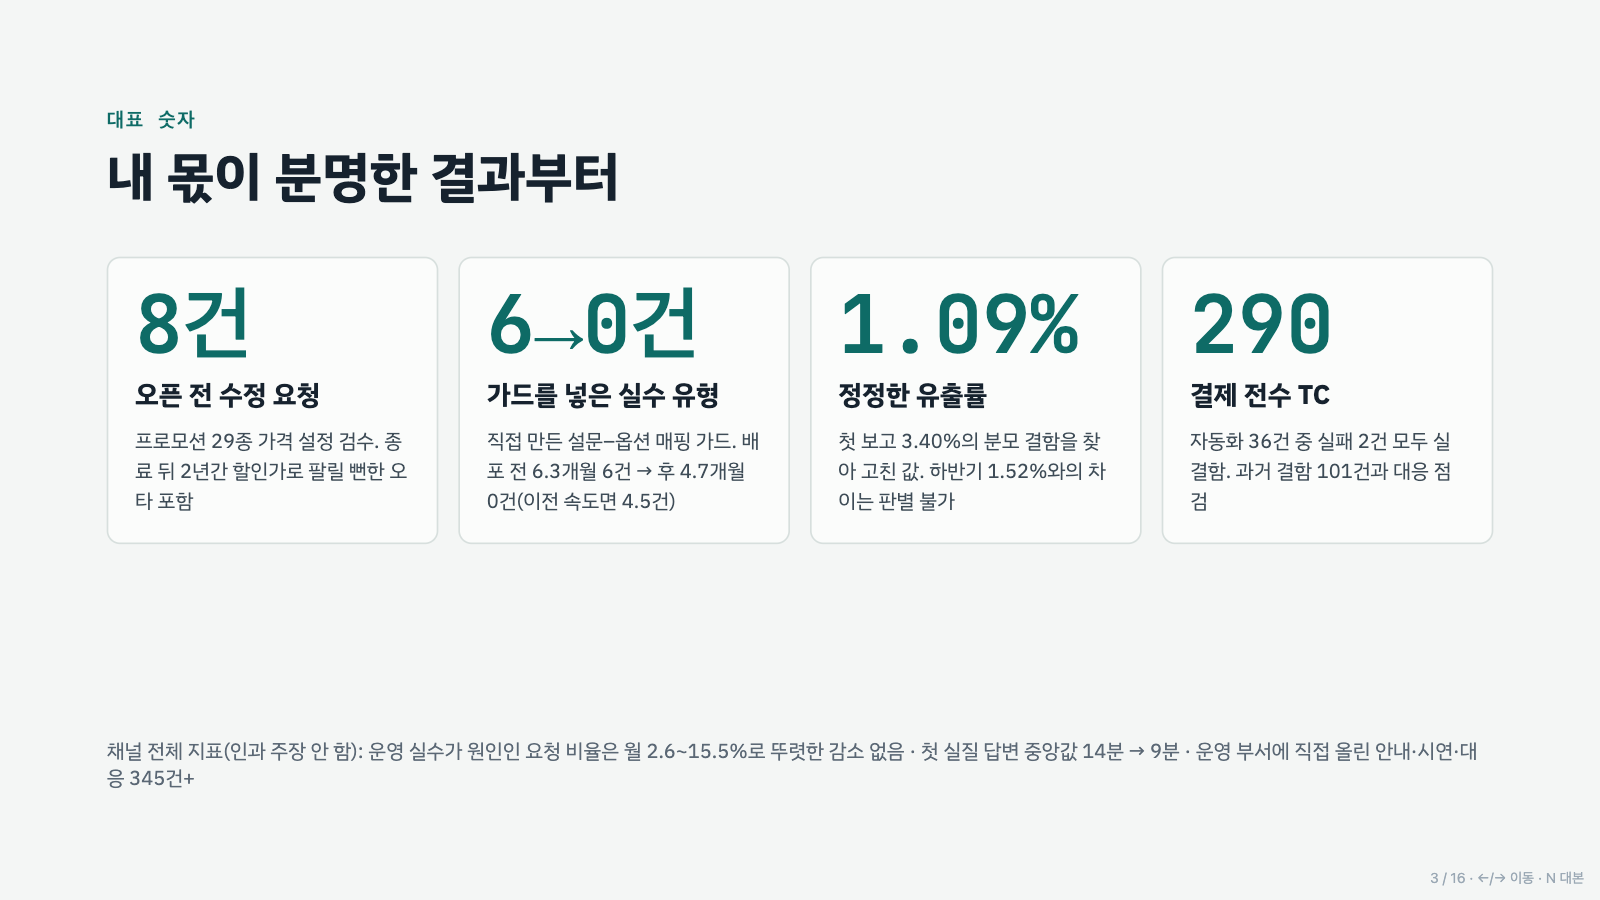
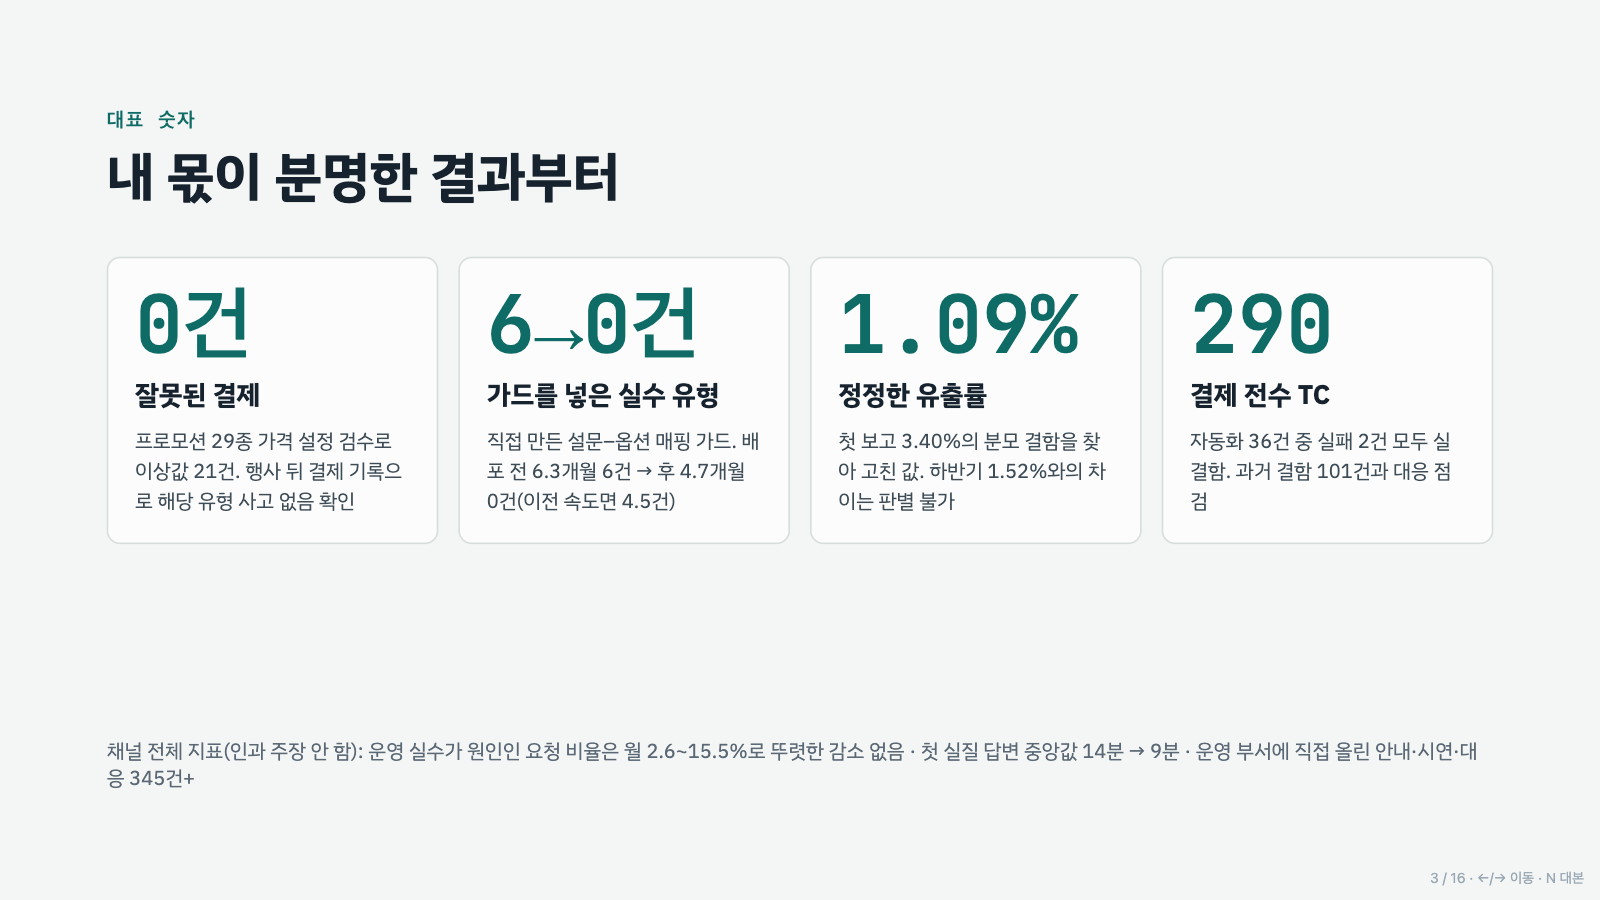
사례 13: 행사 뒤 결제 기록으로 결과 실측(잘못된 결제 0건), '수정 요청 8건'을 근거 없는 수치로 정정

Changed region(s): [[0.0625, 0.4667, 0.25, 0.5911], [0.0625, 0.4044, 0.2188, 0.4667], [0.0938, 0.3422, 0.125, 0.3733]]

diff --git a/5-presentation/portfolio-deck.html b/5-presentation/portfolio-deck.html
@@ -123,13 +123,13 @@ table.tbl th{font-weight:700}
 <h2 class="title">내 몫이 분명한 결과부터</h2>
 </div>
 <div class="cols4">
-<div class="card"><p class="big">8건</p><h3 class="ctitle">오픈 전 수정 요청</h3><p class="ctext">프로모션 29종 가격 설정 검수. 종료 뒤 2년간 할인가로 팔릴 뻔한 오타 포함</p></div>
+<div class="card"><p class="big">0건</p><h3 class="ctitle">잘못된 결제</h3><p class="ctext">프로모션 29종 가격 설정 검수로 이상값 21건. 행사 뒤 결제 기록으로 해당 유형 사고 없음 확인</p></div>
 <div class="card"><p class="big">6→0건</p><h3 class="ctitle">가드를 넣은 실수 유형</h3><p class="ctext">직접 만든 설문–옵션 매핑 가드. 배포 전 6.3개월 6건 → 후 4.7개월 0건(이전 속도면 4.5건)</p></div>
 <div class="card"><p class="big">1.09%</p><h3 class="ctitle">정정한 유출률</h3><p class="ctext">첫 보고 3.40%의 분모 결함을 찾아 고친 값. 하반기 1.52%와의 차이는 판별 불가</p></div>
 <div class="card"><p class="big">290</p><h3 class="ctitle">결제 전수 TC</h3><p class="ctext">자동화 36건 중 실패 2건 모두 실결함. 과거 결함 101건과 대응 점검</p></div>
 </div>
 <p class="source">채널 전체 지표(인과 주장 안 함): 운영 실수가 원인인 요청 비율은 월 2.6~15.5%로 뚜렷한 감소 없음 · 첫 실질 답변 중앙값 14분 → 9분 · 운영 부서에 직접 올린 안내·시연·대응 345건+</p>
-<aside>대표 숫자 네 개는 제 몫이 분명한 것으로 골랐습니다. 프로모션 가격 설정을 오픈 전날 혼자 교차 검증해 수정 요청 8건을 넘겼고, 그중에는 행사가 끝난 뒤 2년간 할인가로 팔릴 뻔한 종료일 오타가 있었습니다. 운영 문의를 판정하다 반복되던 설문과 옵션 매핑 실수 자리에는 제가 직접 가드를 만들었고, 배포 전 6개월 남짓 6건이던 같은 유형이 배포 뒤 4.7개월 동안 0건입니다. 이전 속도라면 4.5건이 나왔어야 합니다. 크리티컬 유출률은 제가 처음 보고한 3.40%의 분모가 틀렸다는 걸 하반기 재측정에서 찾아 고쳤고, 고친 값끼리의 반기 차이는 표본이 작아 판별할 수 없다는 것까지 함께 보고했습니다. 결제 TC는 290건을 설계했고 자동화한 36건에서 나온 실패 2건이 모두 실제 결함이었습니다. 아래 줄은 채널 전체 값입니다. 운영 실수 비율은 월별로 오르내릴 뿐 뚜렷하게 줄지 않았고, 응답 시간도 제 효과라고 주장하지 않습니다.</aside>
+<aside>대표 숫자 네 개는 제 몫이 분명한 것으로 골랐습니다. 프로모션 가격 설정을 오픈 전날 혼자 교차 검증해 이상값 21건을 찾았고, 그중에는 행사가 끝난 뒤 2년간 할인가로 팔릴 뻔한 종료일 오타가 있었습니다. 행사가 끝난 뒤 결제 기록을 다시 조회해 보니 해당 유형에서 잘못된 결제는 한 건도 없었습니다. 다만 누가 언제 고쳤는지는 이력이 남지 않아, 제 지적 덕분이라고는 말하지 않습니다. 운영 문의를 판정하다 반복되던 설문과 옵션 매핑 실수 자리에는 제가 직접 가드를 만들었고, 배포 전 6개월 남짓 6건이던 같은 유형이 배포 뒤 4.7개월 동안 0건입니다. 이전 속도라면 4.5건이 나왔어야 합니다. 크리티컬 유출률은 제가 처음 보고한 3.40%의 분모가 틀렸다는 걸 하반기 재측정에서 찾아 고쳤고, 고친 값끼리의 반기 차이는 표본이 작아 판별할 수 없다는 것까지 함께 보고했습니다. 결제 TC는 290건을 설계했고 자동화한 36건에서 나온 실패 2건이 모두 실제 결함이었습니다. 아래 줄은 채널 전체 값입니다. 운영 실수 비율은 월별로 오르내릴 뿐 뚜렷하게 줄지 않았고, 응답 시간도 제 효과라고 주장하지 않습니다.</aside>
 </section>
 <section id="opsupport">
 <div class="head">

diff --git a/5-presentation/src/slides/numbers.html b/5-presentation/src/slides/numbers.html
@@ -4,11 +4,11 @@
 <h2 class="title">내 몫이 분명한 결과부터</h2>
 </div>
 <div class="cols4">
-<div class="card"><p class="big">8건</p><h3 class="ctitle">오픈 전 수정 요청</h3><p class="ctext">프로모션 29종 가격 설정 검수. 종료 뒤 2년간 할인가로 팔릴 뻔한 오타 포함</p></div>
+<div class="card"><p class="big">0건</p><h3 class="ctitle">잘못된 결제</h3><p class="ctext">프로모션 29종 가격 설정 검수로 이상값 21건. 행사 뒤 결제 기록으로 해당 유형 사고 없음 확인</p></div>
 <div class="card"><p class="big">6→0건</p><h3 class="ctitle">가드를 넣은 실수 유형</h3><p class="ctext">직접 만든 설문–옵션 매핑 가드. 배포 전 6.3개월 6건 → 후 4.7개월 0건(이전 속도면 4.5건)</p></div>
 <div class="card"><p class="big">1.09%</p><h3 class="ctitle">정정한 유출률</h3><p class="ctext">첫 보고 3.40%의 분모 결함을 찾아 고친 값. 하반기 1.52%와의 차이는 판별 불가</p></div>
 <div class="card"><p class="big">290</p><h3 class="ctitle">결제 전수 TC</h3><p class="ctext">자동화 36건 중 실패 2건 모두 실결함. 과거 결함 101건과 대응 점검</p></div>
 </div>
 <p class="source">채널 전체 지표(인과 주장 안 함): 운영 실수가 원인인 요청 비율은 월 2.6~15.5%로 뚜렷한 감소 없음 · 첫 실질 답변 중앙값 14분 → 9분 · 운영 부서에 직접 올린 안내·시연·대응 345건+</p>
-<aside>대표 숫자 네 개는 제 몫이 분명한 것으로 골랐습니다. 프로모션 가격 설정을 오픈 전날 혼자 교차 검증해 수정 요청 8건을 넘겼고, 그중에는 행사가 끝난 뒤 2년간 할인가로 팔릴 뻔한 종료일 오타가 있었습니다. 운영 문의를 판정하다 반복되던 설문과 옵션 매핑 실수 자리에는 제가 직접 가드를 만들었고, 배포 전 6개월 남짓 6건이던 같은 유형이 배포 뒤 4.7개월 동안 0건입니다. 이전 속도라면 4.5건이 나왔어야 합니다. 크리티컬 유출률은 제가 처음 보고한 3.40%의 분모가 틀렸다는 걸 하반기 재측정에서 찾아 고쳤고, 고친 값끼리의 반기 차이는 표본이 작아 판별할 수 없다는 것까지 함께 보고했습니다. 결제 TC는 290건을 설계했고 자동화한 36건에서 나온 실패 2건이 모두 실제 결함이었습니다. 아래 줄은 채널 전체 값입니다. 운영 실수 비율은 월별로 오르내릴 뿐 뚜렷하게 줄지 않았고, 응답 시간도 제 효과라고 주장하지 않습니다.</aside>
+<aside>대표 숫자 네 개는 제 몫이 분명한 것으로 골랐습니다. 프로모션 가격 설정을 오픈 전날 혼자 교차 검증해 이상값 21건을 찾았고, 그중에는 행사가 끝난 뒤 2년간 할인가로 팔릴 뻔한 종료일 오타가 있었습니다. 행사가 끝난 뒤 결제 기록을 다시 조회해 보니 해당 유형에서 잘못된 결제는 한 건도 없었습니다. 다만 누가 언제 고쳤는지는 이력이 남지 않아, 제 지적 덕분이라고는 말하지 않습니다. 운영 문의를 판정하다 반복되던 설문과 옵션 매핑 실수 자리에는 제가 직접 가드를 만들었고, 배포 전 6개월 남짓 6건이던 같은 유형이 배포 뒤 4.7개월 동안 0건입니다. 이전 속도라면 4.5건이 나왔어야 합니다. 크리티컬 유출률은 제가 처음 보고한 3.40%의 분모가 틀렸다는 걸 하반기 재측정에서 찾아 고쳤고, 고친 값끼리의 반기 차이는 표본이 작아 판별할 수 없다는 것까지 함께 보고했습니다. 결제 TC는 290건을 설계했고 자동화한 36건에서 나온 실패 2건이 모두 실제 결함이었습니다. 아래 줄은 채널 전체 값입니다. 운영 실수 비율은 월별로 오르내릴 뿐 뚜렷하게 줄지 않았고, 응답 시간도 제 효과라고 주장하지 않습니다.</aside>
 </section>

diff --git a/2-career-flow/cases/13-promotion-price-crosscheck.md b/2-career-flow/cases/13-promotion-price-crosscheck.md
@@ -1,9 +1,9 @@
 # 오픈 전날, 29개 상품의 가격 계단을 교차 검증하다
 
-**역할**: 시즌 프로모션 판매 설정 검수(혼자) · 이상값 정리 · 수정 요청
+**역할**: 시즌 프로모션 판매 설정 검수(혼자) · 이상값 정리 · 오픈 뒤 결과 확인
 **기간**: 2026.09 (프로모션 오픈 전날)
-**상태**: 오픈 전에 이상값을 유형별로 정리해 상품 담당자에게 개별 수정 요청(8건). 반영은 상품 담당 몫이었고, 몇 건이 오픈 전에 고쳐졌는지는 확인하지 못했다
-**한 줄**: 늦게 살수록 비싸지는 4단계 가격 계단을 29개 상품에 수동으로 설정한 프로모션이었다. 오픈 전날 판매 설정 전체를 뽑아 의도한 계단과 대조했고, 판매가 2년 동안 이어질 뻔한 종료일 오타를 포함한 이상값을 찾아 오픈 전에 넘겼다.
+**상태**: 이상값 6유형·21건을 오픈 전에 찾았고, 행사가 끝난 뒤 운영 DB로 결과를 확인했다 — 결제에 영향을 주는 두 유형에서 잘못된 결제 0건
+**한 줄**: 늦게 살수록 비싸지는 4단계 가격 계단을 29개 상품에 수동으로 설정한 프로모션이었다. 오픈 전날 판매 설정 전체를 뽑아 의도한 계단과 대조해 판매가 2년 동안 이어질 뻔한 종료일 오타를 포함한 이상값을 찾았고, 행사가 끝난 뒤 실제 결제 기록으로 사고가 없었는지 확인했다.
 
 ---
 
@@ -27,13 +27,22 @@
 | 초 단위로 어긋난 종료 시각, 사실상 무제한인 수량 제한 | 3 | 경계 시각 오작동 가능 |
 | 행사 대상이 아닐 수 있는 상품 | 3 | 목록 재확인 필요 |
 
-이 중 고객 결제에 직접 영향을 주는 항목을 상품 담당자별로 묶어 **개별 수정 요청 8건**으로 넘겼다. 자동 전환 예약이 실제로 걸려 있는지는 어드민 권한으로만 볼 수 있어, "자정마다 사람이 수동 전환하면 최대 사고 지점"이라는 확인 요청도 함께 남겼다.
+찾은 이상값은 대조 시트로 정리했다. 오픈 전날(9/7·9/8)에는 마케팅 채널에 설정 리스크 점검 계획(옵션 노출 예약 상태·운영 실수 확인)과 날짜별로 어떤 옵션이 보여야 하는지의 기준을 공유하고, 오픈 자정 모니터링을 개발자 2명과 함께 잡았다. 상품별로 누구에게 어떤 수정을 요청했는지의 개별 기록은 남아 있지 않다(처음 이 사례를 쓸 때 "수정 요청 8건"이라고 적었는데, 확인해 보니 8은 요청 건수가 아니라 메모해 둔 이상값 항목 수였다. 정정한다).
 
-## 결과
-- 종료일 연도 오타처럼 오류 없이 2년간 잘못 팔릴 설정을 오픈 전에 찾아 넘겼다. 반영 확인까지 닫지 못한 것은 아쉬운 점이다 — 다음에는 오픈 직전 같은 시트를 한 번 더 돌려 반영 여부를 표에 남긴다.
+## 결과 — 행사 뒤 운영 DB로 확인 (2026.11, 읽기 전용 조회)
+| 이상값 | 오픈 뒤 실제 결과 | 판정 |
+|---|---|---|
+| 종료일 연도 오타 (2종) | 행사 종료 뒤 결제 **0건**, 종료일은 행사 종료 시각으로 바뀌어 있음 | 사고 없음 |
+| 티징 기간 구매 가능 (8종) | 29종 전부 티징 기간 결제 **0건**, 첫 결제는 모두 메인 강의 당일 11:00 이후 | 사고 없음 |
+| 옵션명 "(복사)" (4종) | 현재 옵션명에 0건 | 현재 정상, 판매 당시 이름은 이력이 없어 미확인 |
+| 계단 구멍·초 단위 시각·대상 의심 | 앵콜 판매용으로 설정이 다시 바뀌어 당시 상태를 알 수 없음 | 판정 불가 |
+
+- 결제에 직접 영향을 주는 두 유형(10종)은 실제로 잘못된 결제가 한 건도 없었다.
+- 설정 변경 이력이 남지 않는 구조라 **누가 언제 고쳤는지는 알 수 없다.** 내 지적 덕분에 고쳐졌다고 주장하지 않는다. 내 몫은 "찾고, 공유하고, 결과까지 확인한 것"이다.
+- 아쉬운 점: 오픈 직전 같은 시트를 한 번 더 돌려 반영 여부를 표에 남겼다면 귀속까지 말할 수 있었다. 다음에는 오픈 직전 재검수를 체크리스트에 넣는다.
 - 같은 검수를 다음 시즌에도 돌릴 수 있게 대조 시트(4개 탭)와 타임라인 그림을 남겼다.
 
 ## 재사용할 원칙
 - **오류가 나지 않는 설정**(가격·기간·노출)은 테스트가 아니라 **의도와의 대조**로 검증한다. 의도를 먼저 문장·그림으로 고정한다.
 - 수동 설정이 많을수록 **시각 경계**(오픈 시각, 자정, 종료일)부터 본다.
-- 이상값은 "상품 담당자별 수정 요청"으로 묶어야 오픈 전에 실제로 고쳐진다.
+- 이상값은 "상품 담당자별 수정 요청"으로 묶고, 요청과 반영 여부를 같은 표에 남긴다. 그래야 결과를 내 몫으로 말할 수 있다.

diff --git a/이력서.md b/이력서.md
@@ -16,7 +16,7 @@
 ## 핵심 역량
 
 - **운영 문의를 닫는 운영지원** — 문의마다 "시스템 결함 / 운영 실수·오해 / 정책 문의"를 판정하고 오늘 할 조치와 근본 수정 티켓을 한 답글로 정리(형식을 도구로 고정). 정책·사용법 안내·새 기능 시연·운영 문제 대응을 운영 부서에 직접 공유(345건+). 반복 실수 자리에 어드민 가드를 직접 구현 → 설문–옵션 매핑 실수 6건 → 0건(배포 전 6.3개월 → 후 4.7개월, 이전 속도면 4.5건). 채널 전체 운영 실수 비율은 월별로 오르내려 뚜렷한 감소는 없었다고 그대로 밝힘
-- **품질을 숫자로 관리** — 대형 프로모션 29종의 가격 설계를 오픈 전날 교차 검증해 수정 요청 8건(행사 종료 뒤 2년간 할인가로 팔릴 뻔한 종료일 오타 포함). 측정 체계가 없던 곳에 크리티컬 유출률을 세우고, 하반기 재측정에서 내 첫 계산의 분모 결함을 찾아 고침(운영 배포 기준 상반기 1.09%·하반기 1.52%, 반기 차이는 표본이 작아 판별 불가)
+- **품질을 숫자로 관리** — 대형 프로모션 29종의 가격 설계를 오픈 전날 교차 검증해 이상값 6유형·21건을 찾고(행사 종료 뒤 2년간 할인가로 팔릴 뻔한 종료일 오타 포함), 행사 뒤 결제 기록으로 해당 유형 잘못된 결제 0건을 확인. 측정 체계가 없던 곳에 크리티컬 유출률을 세우고, 하반기 재측정에서 내 첫 계산의 분모 결함을 찾아 고침(운영 배포 기준 상반기 1.09%·하반기 1.52%, 반기 차이는 표본이 작아 판별 불가)
 - **운영 도구를 프로덕트로** — 백오피스 KR 오너로 월간 의견 조사·개선 사이클을 운영, 9월 회차부터 모든 응답에 처리 현황 회신(9월 의견 20건 중 12건 처리), 만족도 8.23 → 9.33(보조 지표)
 - **원인 진단과 직접 수정** — 프로덕션 레포 6곳에 **직접 커밋 328건**(2026.02~11). 진단·검증·배포 확인은 직접, 코드 작성은 AI 에이전트와 함께
 - **요구사항·정책 정의** — PRD 12건 이상, 정책서 6건 이상을 기획 담당자로 작성
@@ -37,7 +37,7 @@
 - 품질 지표 신설·정정: 크리티컬 유출률(크리티컬 핫픽스 ÷ 운영 배포: 상반기 7/645 = 1.09%, 하반기 9/593 = 1.52%), 첫 보고 3.40%의 분모 결함을 직접 찾아 정정
 - 직접 커밋 레포별: 백오피스 프론트 161 · 사용자 프론트 110 · 백엔드 45 · 백오피스 API 10 · 기타 2개 레포 2
 - PRD 12건+·정책서 6건+ (알림 발송 내재화, 쿠폰 자동 적용, 수강률 산정 기준, 환불 정책 등)
-- 데이터 기반 결정: 프로모션 결제 기여 실측(홈 배너 14.7% vs 플로팅 창 2.16%)으로 다음 시즌 배치 변경, 판매 상품 29종 가격 설계를 오픈 전날 교차 검증해 수정 요청 8건
+- 데이터 기반 결정: 프로모션 결제 기여 실측(홈 배너 14.7% vs 플로팅 창 2.16%)으로 다음 시즌 배치 변경, 판매 상품 29종 가격 설계를 오픈 전날 교차 검증(이상값 21건, 행사 뒤 잘못된 결제 0건 확인)
 - 스쿼드 월간 플래닝 오너, 채용 과제 평가 4명, 챕터 주간 미팅 2년 운영
 - 이슈 티켓 **3,316건** 등록(재직 누적, 본인)
 

diff --git a/README.md b/README.md
@@ -5,7 +5,7 @@
 
 | 오픈 전에 찾은 것 | 반복 실수 자리에 넣은 가드 | 내 계산도 다시 잰다 | 결제 QA |
 |---|---|---|---|
-| 프로모션 29종의 가격 설계를 오픈 전날 교차 검증 → **수정 요청 8건**(반영 여부는 담당자 몫이라 미확인), 그중 행사 종료 뒤 2년간 할인가로 팔릴 뻔한 종료일 오타 포함 → [사례 13](2-career-flow/cases/13-promotion-price-crosscheck.md) | 운영 문의를 판정하다 반복되는 실수 자리에 직접 만든 가드 → 설문–옵션 매핑 실수 **6건 → 0건**(이전 속도면 4.5건). 판정 틀로 문의를 당일 닫는 과정 → [사례 12](2-career-flow/cases/12-ops-inquiry-triage.md) | 크리티컬 유출률 첫 보고 3.40%의 **분모 결함을 직접 찾아 정정** → 정정 값 1.09%·1.52%(반기 차이는 표본 7·9건이라 판별 불가) → [사례 02](2-career-flow/cases/02-measuring-escape-rate.md) | 전수 TC **290건**, 자동화 36건 중 실패 2건 모두 실결함 |
+| 프로모션 29종의 가격 설계를 오픈 전날 교차 검증해 이상값 6유형·21건(행사 종료 뒤 2년간 할인가로 팔릴 뻔한 종료일 오타 포함) → 행사 뒤 결제 기록으로 확인: 해당 유형 **잘못된 결제 0건** → [사례 13](2-career-flow/cases/13-promotion-price-crosscheck.md) | 운영 문의를 판정하다 반복되는 실수 자리에 직접 만든 가드 → 설문–옵션 매핑 실수 **6건 → 0건**(이전 속도면 4.5건). 판정 틀로 문의를 당일 닫는 과정 → [사례 12](2-career-flow/cases/12-ops-inquiry-triage.md) | 크리티컬 유출률 첫 보고 3.40%의 **분모 결함을 직접 찾아 정정** → 정정 값 1.09%·1.52%(반기 차이는 표본 7·9건이라 판별 불가) → [사례 02](2-career-flow/cases/02-measuring-escape-rate.md) | 전수 TC **290건**, 자동화 36건 중 실패 2건 모두 실결함 |
 
 채널 전체 지표(인과 주장 안 함): 운영 실수가 원인인 요청 비율은 월 2.6~15.5%로 **뚜렷한 감소 없음**(가드로 막은 유형 자리에 다른 유형이 생김) · 첫 실질 답변 중앙값 14분 → 9분 · 개발자 데이터 보정으로 끝난 문의 13% → 5% → [경력기술서 0절](2-career-flow/경력기술서.md#0-운영지원--운영-문의를-판정하고-닫기)
 

diff --git a/2-career-flow/README.md b/2-career-flow/README.md
@@ -8,6 +8,7 @@
 | # | 사례 | 영역 | 결과 |
 |---|---|---|---|
 | 12 | [운영 문의를 판정하고 닫는다 — 같은 주의 세 건](cases/12-ops-inquiry-triage.md) | 운영지원 | 판정 → 3건 모두 접수 당일 닫음 · 반복 실수 자리에 넣은 가드 → 설문–옵션 매핑 실수 6 → 0건 |
+| 13 | [오픈 전날, 29개 상품의 가격 계단을 교차 검증하다](cases/13-promotion-price-crosscheck.md) | QA | 이상값 21건 → 행사 뒤 결제 기록으로 확인, 결제 영향 유형 잘못된 결제 0건(수정 경위는 미확인) |
 | 04 | [고객 검색이 안 된다 — 원인 두 개](cases/04-search-zero-results.md) | BE | 직접 수정 · 운영 반영 |
 | 01 | [사내 백오피스를 프로덕트로 운영하기](cases/01-backoffice-as-product.md) | 기획·FE·운영지원 | 9월 의견 20건 중 12건 처리·전원 회신, 만족도 8.23 → 9.33(보조) |
 | 02 | [측정 체계가 없던 곳에 품질 지표 세우기 — 내 계산의 결함까지 고쳤다](cases/02-measuring-escape-rate.md) | QA·데이터 | 첫 보고 3.40%의 분모 결함을 재측정에서 찾아 정정, 고친 기준으로 1.09%·1.52%(반기 차이 판별 불가)를 공개 |
@@ -24,7 +25,6 @@
 
 | # | 사례 | 영역 | 내 몫의 끝 |
 |---|---|---|---|
-| 13 | [오픈 전날, 29개 상품의 가격 계단을 교차 검증하다](cases/13-promotion-price-crosscheck.md) | QA | 종료일 연도 오타(2년간 할인가 판매 위험) 등 이상값 → 담당자별 수정 요청 8건(반영 여부는 상품 담당 몫이라 미확인) |
 | 03 | [페이지 이동 직전 분석 이벤트 유실](cases/03-event-loss-before-navigation.md) | FE·데이터 | 재발 원인 재현 · 2차 수정 기준 인계 |
 | 05 | [2,000건에서 조용히 잘리는 일괄 변경](cases/05-silent-2000-cap.md) | FE·BE·QA | 원인·보정안·근본 수정안 인계 |
 | 06 | [알림 금액과 결제 금액이 다르다 — 재발한 이유](cases/06-price-snapshot-recurrence.md) | 기획·QA | 정책 결정 요청 인계 |
